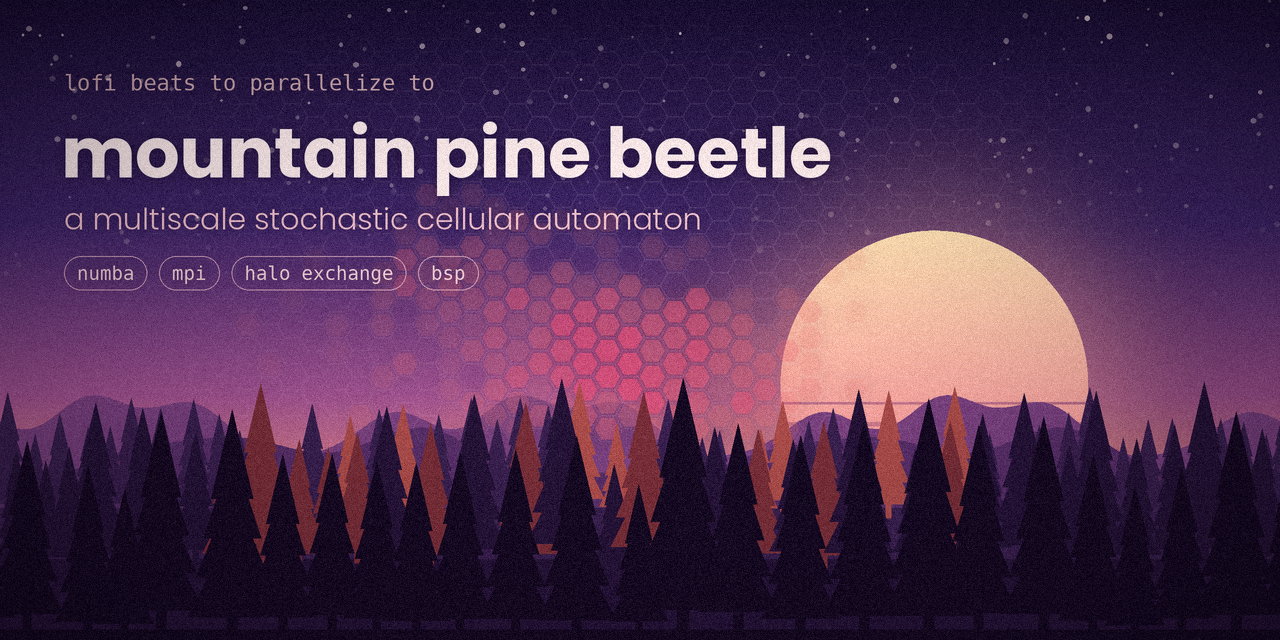
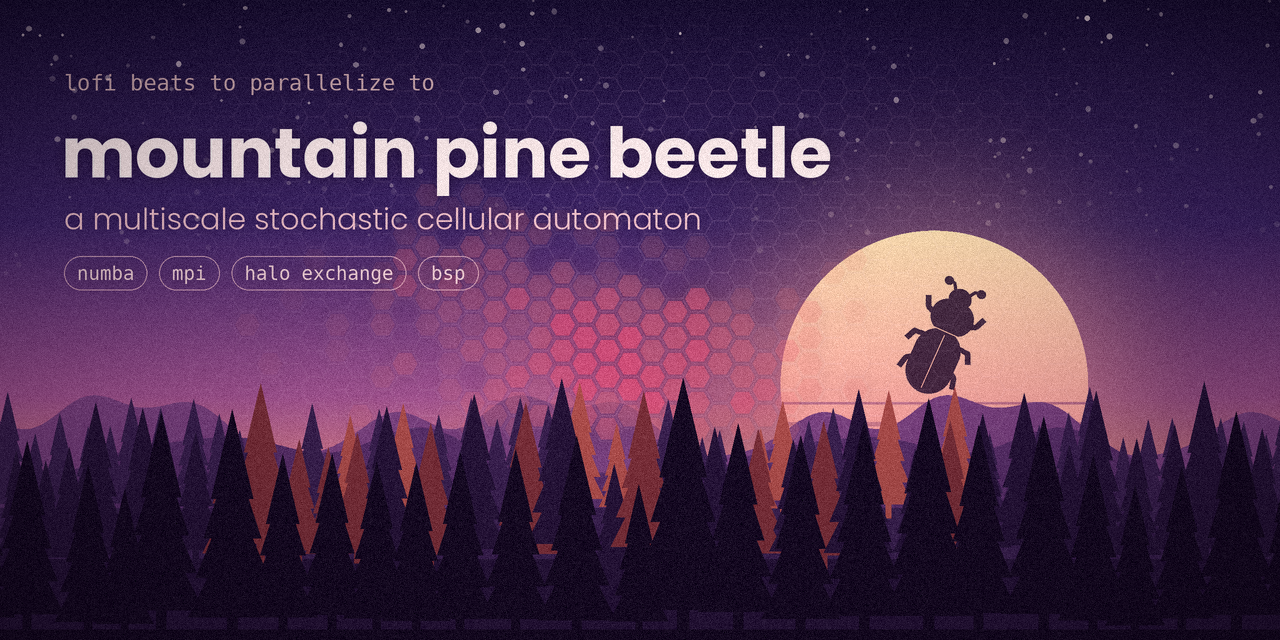
Portada: agrega silueta del escarabajo frente al sol
Claude-Session: https://claude.ai/code/session_01JPC9W3DqsfVQhgzxStaugr

Changed region(s): [[0.6875, 0.4375, 0.7812, 0.625]]

diff --git a/docs/img/generar_portada.py b/docs/img/generar_portada.py
@@ -50,6 +50,46 @@ def pino(draw, x, base, alto, color):
         draw.polygon([(x - a / 2, y0), (x + a / 2, y0), (x, y0 - alto * 0.42)], fill=color)
 
 
+def escarabajo(L, color, angulo=0):
+    """Silueta de un escarabajo de corteza en un lienzo de L x L, rotada `angulo` grados.
+
+    Cuerpo cilíndrico (élitros + pronoto), cabeza chica, 6 patas articuladas y
+    antenas acodadas con maza, como Dendroctonus.
+    """
+    c = Image.new("RGBA", (L, L), (0, 0, 0, 0))
+    d = ImageDraw.Draw(c)
+    u = L / 100.0                       # unidad: el dibujo vive en 100 x 100
+    cx = 50 * u
+    grosor = max(1, int(3.8 * u))
+
+    def P(x, y):
+        return (x * u, y * u)
+
+    # Patas (3 por lado), cortas y gruesas: fémur + tibia
+    for y_base, (dx1, dy1), (dx2, dy2) in [(36, (-9, -4), (-3, -7)),
+                                            (50, (-11, 1), (-3, 7)),
+                                            (64, (-9, 6), (-2, 8))]:
+        for s in (-1, 1):
+            x0 = 50 + s * 9
+            x1, y1 = x0 + s * -dx1, y_base + dy1
+            x2, y2 = x1 + s * -dx2, y1 + dy2
+            d.line([P(x0, y_base), P(x1, y1), P(x2, y2)], fill=color, width=grosor, joint="curve")
+    # Antenas cortas, acodadas, con maza
+    for s in (-1, 1):
+        d.line([P(50 + s * 4, 16), P(50 + s * 8, 10), P(50 + s * 12, 10)], fill=color,
+               width=max(1, int(2.2 * u)), joint="curve")
+        d.ellipse([P(50 + s * 12 - 3, 7), P(50 + s * 12 + 3, 13)], fill=color)
+    # Cabeza, pronoto y élitros (cuerpo cilíndrico y robusto)
+    d.ellipse([P(42, 12), P(58, 26)], fill=color)
+    d.rounded_rectangle([P(35, 21), P(65, 44)], radius=11 * u, fill=color)
+    d.rounded_rectangle([P(34, 42), P(66, 88)], radius=16 * u, fill=color)
+    # Separación pronoto-élitros y sutura (líneas claras, sutiles)
+    claro = (255, 190, 170, 80)
+    d.line([P(38, 43), P(62, 43)], fill=claro, width=max(1, int(1.0 * u)))
+    d.line([P(50, 46), P(50, 85)], fill=claro, width=max(1, int(1.0 * u)))
+    return c.rotate(angulo, resample=Image.BICUBIC, expand=False)
+
+
 def capa_montes(base_y, amp, color, semilla, frec=3):
     r = np.random.default_rng(semilla)
     xs = np.linspace(0, 1, 400)
@@ -93,6 +133,13 @@ def main():
         y0 = cy + R * (0.12 + 0.13 * k)
         ds.rectangle([cx - R, y0, cx + R, y0 + (2 + k * 1.6) * S], fill=(0, 0, 0, 0))
     img = Image.alpha_composite(img, sol)
+
+    # Escarabajo en silueta frente al sol
+    L = int(R * 0.95)
+    bicho = escarabajo(L, (38, 16, 44, 235), angulo=-24)
+    capa = Image.new("RGBA", (w, h), (0, 0, 0, 0))
+    capa.paste(bicho, (int(cx - L / 2 + R * 0.05), int(cy - L / 2 - R * 0.28)), bicho)
+    img = Image.alpha_composite(img, capa)
 
     # --- Montañas ------------------------------------------------------------
     img = Image.alpha_composite(img, capa_montes(0.66, 0.035, (120, 62, 122, 255), 1))
